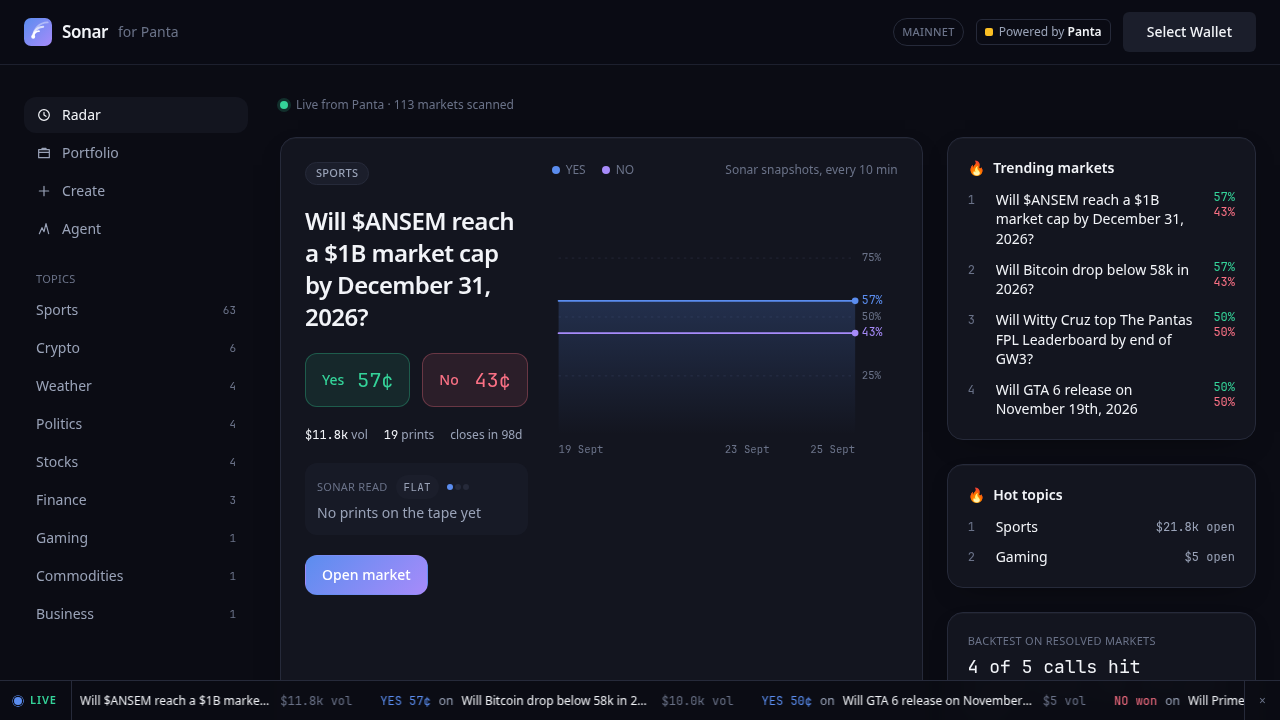
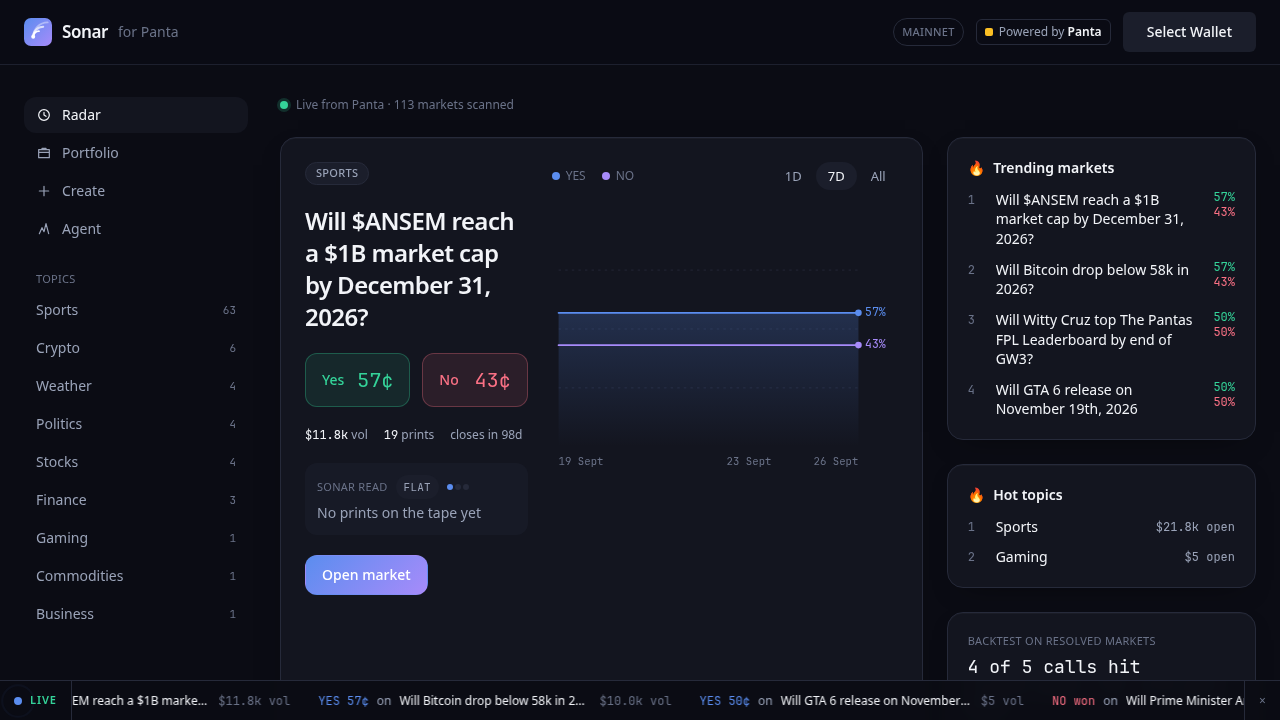
Live price chart: range picker, draw-in, pulsing last point, minute refresh
The hero chart on the Radar polls the market every minute and animates
in; the market page chart shares the component and refreshes with its
page. The "Sonar snapshots, every 10 min" caption and the percentage
gridline labels are gone; the end-point labels carry the numbers.

diff --git a/src/components/PriceChart.tsx b/src/components/PriceChart.tsx
@@ -4,10 +4,10 @@ import type { Snapshot } from '@/lib/types';
  * YES and NO price over time from Sonar's own snapshots. YES in blue, NO in violet,
  * end labels like a trading terminal. Pure SVG, no client code.
  */
-export function PriceChart({ snaps, height = 220, className = '' }: { snaps: Snapshot[]; height?: number; className?: string }) {
+export function PriceChart({ snaps, height = 220, className = '', live = false }: { snaps: Snapshot[]; height?: number; className?: string; live?: boolean }) {
   const pts = snaps.filter((s) => s.yesPrice !== null).map((s) => ({ t: s.ts, y: s.yesPrice as number }));
   // 420 wide: the chart sits in a column about that wide on desktop, so text renders near 1:1
-  const W = 420, H = height, padR = 52, padL = 8, padT = 16, padB = 28;
+  const W = 420, H = height, padR = 48, padL = 8, padT = 16, padB = 28;
   if (pts.length < 2) {
     return (
       <div className={`flex items-center justify-center rounded-xl border border-dashed border-line text-center text-xs text-fog-2 ${className}`} style={{ height }}>
@@ -33,15 +33,11 @@ export function PriceChart({ snaps, height = 220, className = '' }: { snaps: Sna
           <stop offset="1" stopColor="#5b8def" stopOpacity="0" />
         </linearGradient>
       </defs>
-      {[0.25, 0.5, 0.75].map((g) => (
-        <g key={g}>
-          <line x1={padL} x2={W - padR} y1={y(g)} y2={y(g)} stroke="#262a3a" strokeDasharray="3 5" />
-          <text x={W - padR + 8} y={y(g) + 4} fontSize="13" fill="#6a7288" fontFamily="var(--font-mono)">{Math.round(g * 100)}%</text>
-        </g>
-      ))}
+      {[0.25, 0.5, 0.75].map((g) => <line key={g} x1={padL} x2={W - padR} y1={y(g)} y2={y(g)} stroke="#262a3a" strokeDasharray="3 5" />)}
       <path d={`${yes} L${x(last.t).toFixed(1)},${y(0)} L${x(pts[0].t).toFixed(1)},${y(0)} Z`} fill="url(#yes-fill)" />
-      <path d={no} fill="none" stroke="#a78bfa" strokeWidth="2.25" strokeLinejoin="round" strokeLinecap="round" />
-      <path d={yes} fill="none" stroke="#5b8def" strokeWidth="2.25" strokeLinejoin="round" strokeLinecap="round" />
+      <path d={no} fill="none" stroke="#a78bfa" strokeWidth="2.25" strokeLinejoin="round" strokeLinecap="round" className={live ? 'chart-line' : ''} />
+      <path d={yes} fill="none" stroke="#5b8def" strokeWidth="2.25" strokeLinejoin="round" strokeLinecap="round" className={live ? 'chart-line' : ''} />
+      {live && <circle cx={x(last.t)} cy={y(last.y)} r="4" fill="#5b8def" className="chart-pulse" />}
       <circle cx={x(last.t)} cy={y(last.y)} r="4" fill="#5b8def" />
       <circle cx={x(last.t)} cy={y(1 - last.y)} r="4" fill="#a78bfa" />
       <text x={x(last.t) + 8} y={y(last.y) + 4} fontSize="14" fontWeight="600" fill="#5b8def" fontFamily="var(--font-mono)">{Math.round(last.y * 100)}%</text>

diff --git a/src/components/LiveChart.tsx b/src/components/LiveChart.tsx
@@ -1,0 +1,45 @@
+'use client';
+import { useMemo, useState } from 'react';
+import type { Snapshot } from '@/lib/types';
+import { PriceChart } from './PriceChart';
+import { useApi } from './useApi';
+
+type Range = '1d' | '7d' | 'all';
+const RANGES: { k: Range; label: string; sec: number }[] = [
+  { k: '1d', label: '1D', sec: 86400 },
+  { k: '7d', label: '7D', sec: 7 * 86400 },
+  { k: 'all', label: 'All', sec: Infinity },
+];
+
+/**
+ * The price chart, alive: a range picker, the line draws in, the last point pulses, and when
+ * `poll` is set the snapshots refresh every minute without a page reload.
+ */
+export function LiveChart({ marketId, snaps, height = 240, poll = false }: { marketId: string; snaps: Snapshot[]; height?: number; poll?: boolean }) {
+  const [range, setRange] = useState<Range>('7d');
+  const { data } = useApi<{ snapshots: Snapshot[] }>(poll ? `/api/market/${marketId}` : null, [marketId, poll], 60_000);
+  const all = data?.snapshots?.length ? data.snapshots : snaps;
+  const shown = useMemo(() => {
+    const sec = RANGES.find((r) => r.k === range)!.sec;
+    if (sec === Infinity) return all;
+    const cut = Date.now() / 1000 - sec;
+    const inRange = all.filter((s) => s.ts >= cut);
+    return inRange.length >= 2 ? inRange : all; // a range with nothing in it falls back to the whole record
+  }, [all, range]);
+  return (
+    <div className="flex h-full flex-col">
+      <div className="mb-2 flex items-center justify-between text-xs text-fog-2">
+        <span className="flex items-center gap-4">
+          <span className="flex items-center gap-1.5"><i className="h-2 w-2 rounded-full bg-ping" /> YES</span>
+          <span className="flex items-center gap-1.5"><i className="h-2 w-2 rounded-full bg-violet" /> NO</span>
+        </span>
+        <div role="tablist" aria-label="Chart range" className="flex gap-0.5">
+          {RANGES.map((r) => (
+            <button key={r.k} role="tab" aria-selected={range === r.k} onClick={() => setRange(r.k)} className="filter px-2.5 py-1 text-[11px]">{r.label}</button>
+          ))}
+        </div>
+      </div>
+      <PriceChart snaps={shown} height={height} live />
+    </div>
+  );
+}

diff --git a/src/app/(app)/page.tsx b/src/app/(app)/page.tsx
@@ -2,7 +2,7 @@ import Link from 'next/link';
 import { readRadar, readRefreshLog, readSnapshots } from '@/lib/radar';
 import { readBacktest } from '@/lib/backtest';
 import { RadarTable } from '@/components/RadarTable';
-import { PriceChart } from '@/components/PriceChart';
+import { LiveChart } from '@/components/LiveChart';
 import { SideChip, ConfidenceDots } from '@/components/SignalBadge';
 import { agoWords, cap, plural, words } from '@/components/Desk';
 import { cents, untilText, usd } from '@/lib/format';
@@ -81,11 +81,7 @@ export default async function RadarPage({ searchParams }: { searchParams?: { top
                 <Link href={`/market/${hero.detail.marketId}`} className="btn btn-primary w-full sm:w-auto">Open market</Link>
               </div>
               <div className="flex flex-col lg:col-span-3">
-                <div className="mb-2 flex items-center justify-between text-xs text-fog-2">
-                  <span className="flex items-center gap-4"><span className="flex items-center gap-1.5"><i className="h-2 w-2 rounded-full bg-ping" /> YES</span><span className="flex items-center gap-1.5"><i className="h-2 w-2 rounded-full bg-violet" /> NO</span></span>
-                  <span>Sonar snapshots, every 10 min</span>
-                </div>
-                <PriceChart snaps={snaps} height={330} />
+                <LiveChart marketId={hero.detail.marketId} snaps={snaps} height={330} poll />
               </div>
             </div>
           ) : (

diff --git a/src/components/MarketView.tsx b/src/components/MarketView.tsx
@@ -7,7 +7,7 @@ import { explorerTx } from '@/lib/solana';
 import { useApi } from './useApi';
 import { ConfidenceDots, ScoreBar, SideChip } from './SignalBadge';
 import { Sparkline } from './Sparkline';
-import { PriceChart } from './PriceChart';
+import { LiveChart } from './LiveChart';
 import { TradePanel } from './TradePanel';
 import { PoweredByPanta } from './PoweredByPanta';
 
@@ -56,11 +56,7 @@ export function MarketView({ id }: { id: string }) {
                 <p className="text-sm text-fog"><span className="mono text-paper">{usd(d.totalVolumeUsdc ?? d.volumeUsdc, 0)}</span> traded across <span className="mono text-paper">{oc?.totalTrades ?? tape.length}</span> prints</p>
               </div>
               <div className="lg:col-span-3">
-                <div className="mb-2 flex items-center justify-between text-xs text-fog-2">
-                  <span className="flex items-center gap-4"><span className="flex items-center gap-1.5"><i className="h-2 w-2 rounded-full bg-ping" /> YES</span><span className="flex items-center gap-1.5"><i className="h-2 w-2 rounded-full bg-violet" /> NO</span></span>
-                  <span>Sonar snapshots, every 10 min</span>
-                </div>
-                <PriceChart snaps={data.snapshots} height={210} />
+                <LiveChart marketId={d.marketId} snaps={data.snapshots} height={210} />
               </div>
             </div>
           </section>

diff --git a/src/app/globals.css b/src/app/globals.css
@@ -83,6 +83,14 @@
   @keyframes sweep-blip { 0% { opacity: 1; } 70% { opacity: 0.3; } 100% { opacity: 1; } }
 }
 
+/* the live chart: the line draws in once, the last YES point breathes */
+@media (prefers-reduced-motion: no-preference) {
+  .chart-line { stroke-dasharray: 1200; stroke-dashoffset: 1200; animation: chart-draw 1.1s cubic-bezier(0.22, 1, 0.36, 1) forwards; }
+  .chart-pulse { transform-box: fill-box; transform-origin: center; animation: chart-pulse 2.4s ease-out infinite; }
+  @keyframes chart-draw { to { stroke-dashoffset: 0; } }
+  @keyframes chart-pulse { 0% { transform: scale(1); opacity: 0.7; } 100% { transform: scale(3.2); opacity: 0; } }
+}
+
 /* a still green dot with a soft halo: says live without blinking */
 .dot-live { display: inline-block; width: 8px; height: 8px; border-radius: 9999px; background: theme('colors.yes'); box-shadow: 0 0 0 3px rgba(52, 211, 153, 0.18); }
 
